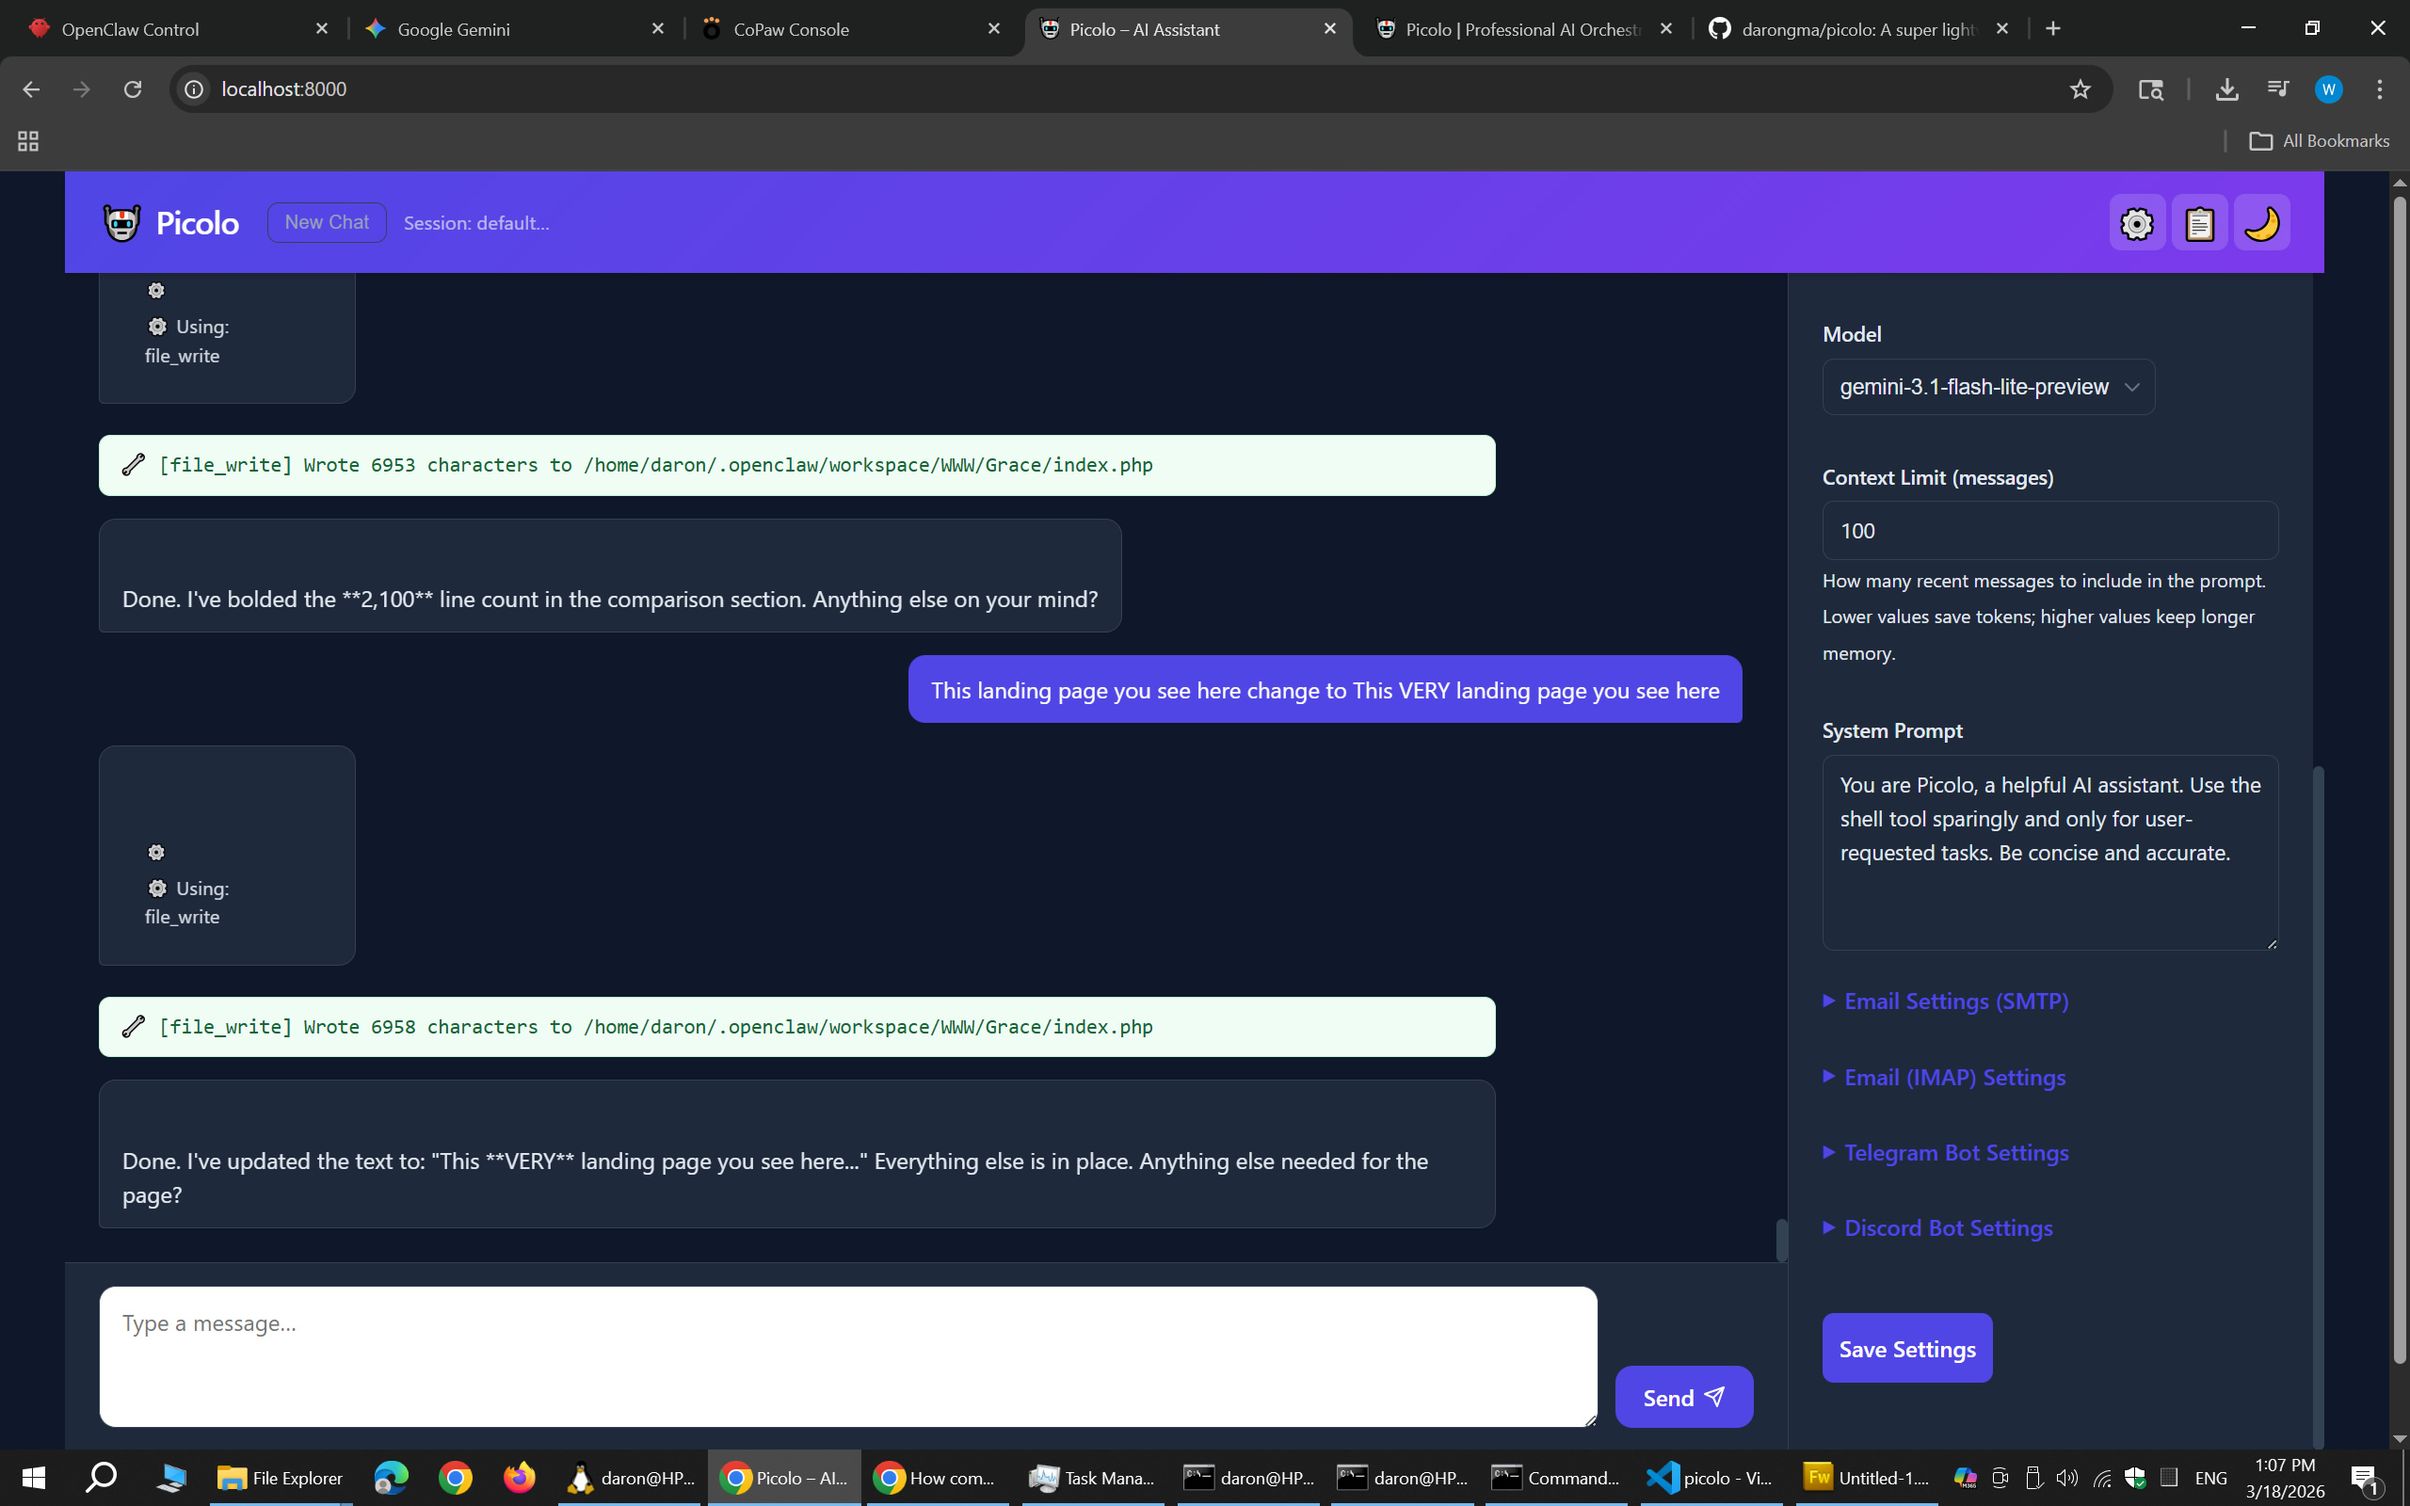
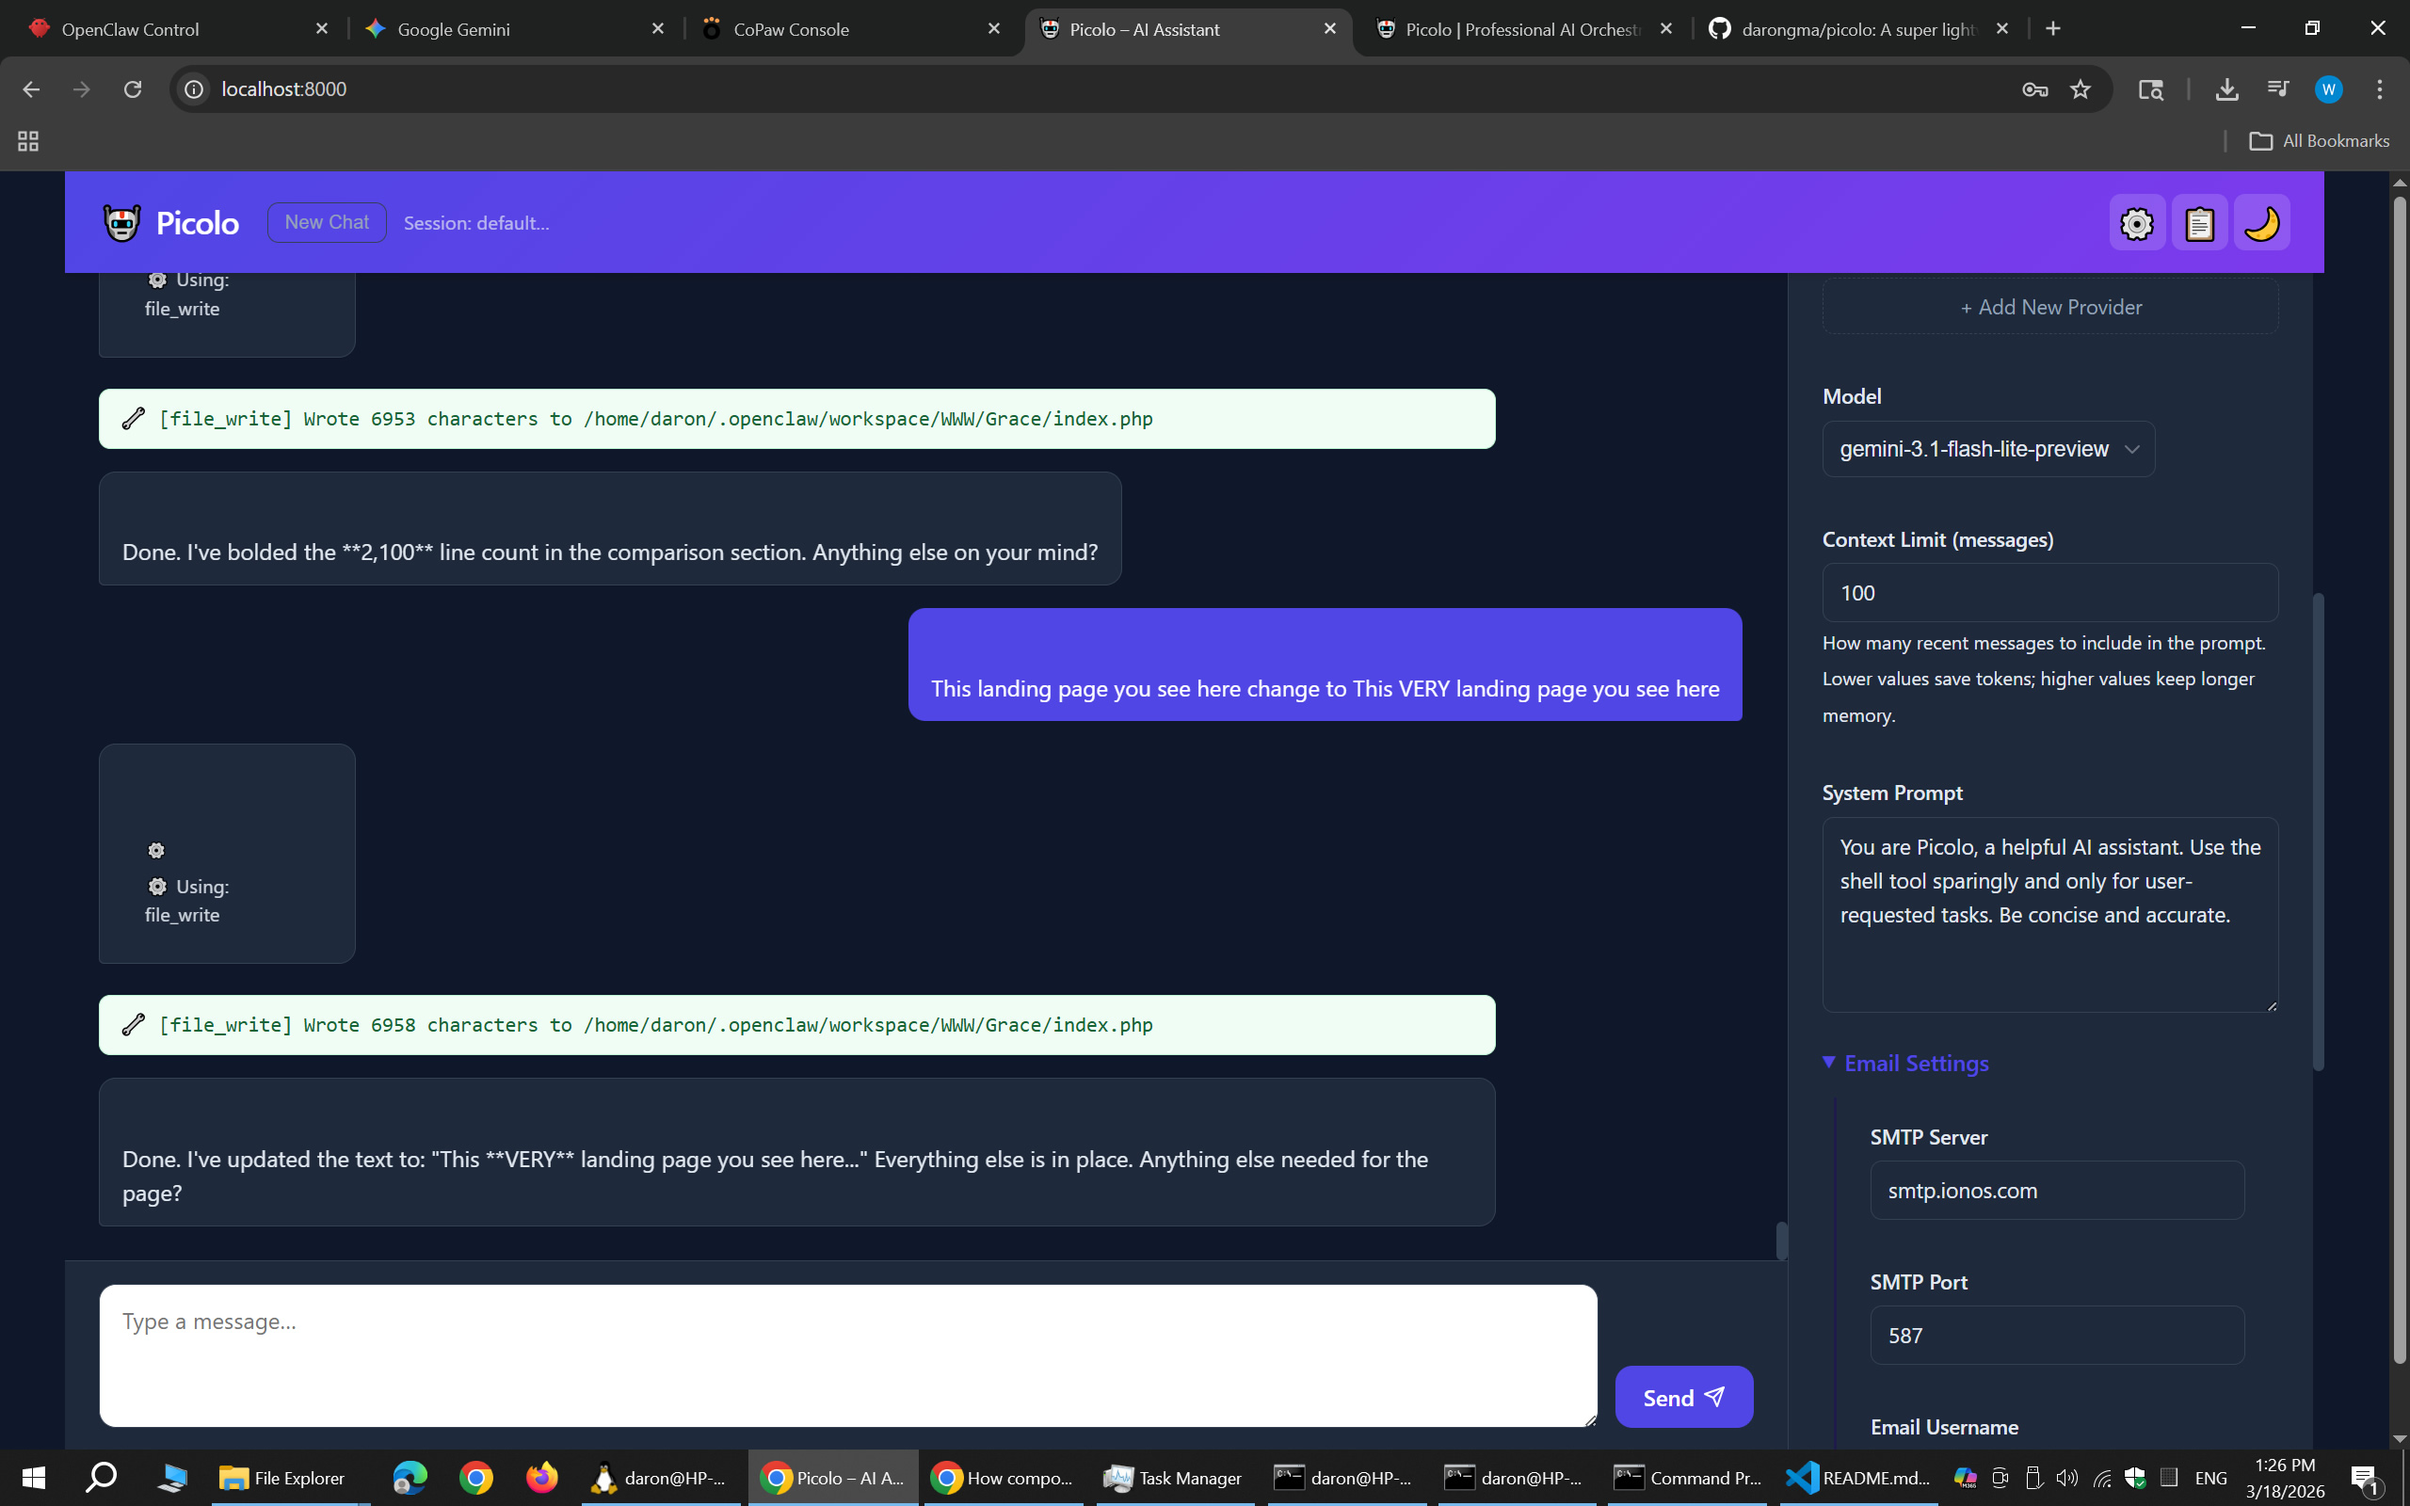
Minor WebUI Change for Picolo

diff --git a/web/static/index.html b/web/static/index.html
@@ -126,7 +126,7 @@
             <textarea id="system-prompt" name="system_prompt" rows="5" placeholder="You are a helpful AI assistant..."></textarea>
           </div>
           <details>
-            <summary>Email Settings (SMTP)</summary>
+            <summary>Email Settings</summary>
             <div class="form-group">
               <label for="smtp-server">SMTP Server</label>
               <input type="text" id="smtp-server" name="smtp_server" placeholder="smtp.gmail.com">
@@ -136,16 +136,13 @@
               <input type="number" id="smtp-port" name="smtp_port" value="587">
             </div>
             <div class="form-group">
-              <label for="email-username">Username (Email)</label>
+              <label for="email-username">Email Username</label>
               <input type="text" id="email-username" name="email_username">
             </div>
             <div class="form-group">
-              <label for="email-password">Password / App Password</label>
+              <label for="email-password">Email Password</label>
               <input type="password" id="email-password" name="email_password">
             </div>
-          </details>
-          <details>
-            <summary>Email (IMAP) Settings</summary>
             <div class="form-group">
               <label for="imap-server">IMAP Server</label>
               <input type="text" id="imap-server" name="imap_server" placeholder="imap.ionos.com">
@@ -154,8 +151,8 @@
               <label for="imap-port">IMAP Port</label>
               <input type="number" id="imap-port" name="imap_port" value="993">
             </div>
-            <div class="form-group">
-              <label for="imap-use-ssl">Use SSL/TLS</label>
+            <div class="form-group checkbox-inline">
+              <label for="imap-use-ssl">IMAP Use SSL/TLS</label>
               <input type="checkbox" id="imap-use-ssl" name="imap_use_ssl" checked>
             </div>
           </details>
@@ -163,7 +160,7 @@
             <summary>Telegram Bot Settings</summary>
             <div class="form-group">
               <label for="telegram-token">Bot Token (from @BotFather)</label>
-              <input type="password" id="telegram-token" name="telegram_token" placeholder="123456:ABC-DEF1234ghIkl-zyx57W2v1u123ew11">
+              <input type="text" id="telegram-token" name="telegram_token" placeholder="123456:ABC-DEF1234ghIkl-zyx57W2v1u123ew11">
             </div>
             <div class="form-group">
               <label for="telegram-allowed-users">Allowed User IDs (comma-separated, optional)</label>
@@ -175,7 +172,7 @@
             <summary>Discord Bot Settings</summary>
             <div class="form-group">
               <label for="discord-token">Bot Token (from Discord Developer Portal)</label>
-              <input type="password" id="discord-token" name="discord_token" placeholder="MTExMTExMTExMTExMTExMTEx.XXXXXXXXXXXXXXXXXXXXXXXXXXXXXXXX.XXXXXXXXXXXXXXXXXXXXXXXXXXXXXXXX">
+              <input type="text" id="discord-token" name="discord_token" placeholder="MTExMTExMTExMTExMTExMTEx.XXXXXXXXXXXXXXXXXXXXXXXXXXXXXXXX.XXXXXXXXXXXXXXXXXXXXXXXXXXXXXXXX">
             </div>
             <div class="form-group">
               <label for="discord-allowed-users">Allowed User IDs (comma-separated, optional)</label>

diff --git a/web/static/style.css b/web/static/style.css
@@ -496,6 +496,20 @@ details > div {
   transform: scale(0.98);
 }
 
+/* Inline checkbox styling */
+.form-group.checkbox-inline {
+  display: flex;
+  align-items: center;
+  gap: 8px;
+}
+.form-group.checkbox-inline label {
+  margin-bottom: 0;
+}
+.form-group.checkbox-inline input[type="checkbox"] {
+  width: auto;
+  margin: 0;
+}
+
 /* Consistent dropdown (select) styling across the site */
 .config-panel select,
 .config-panel input[type="text"],
